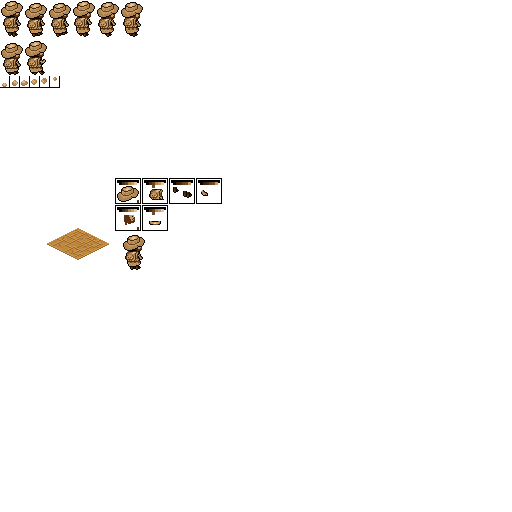
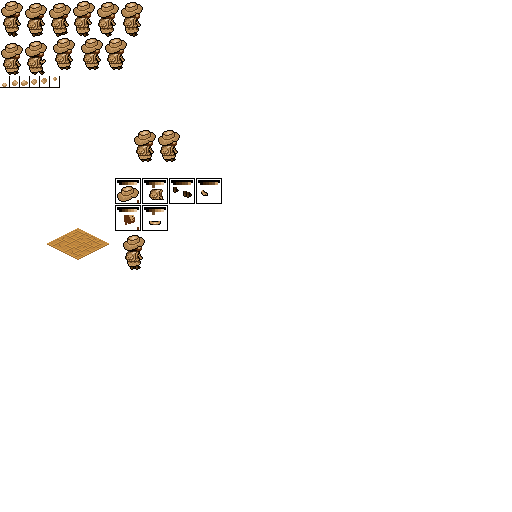
UPDATE ::: improve the animation when the player was hit.

Changed region(s): [[0.0938, 0.0625, 0.25, 0.1562], [0.25, 0.25, 0.375, 0.3125]]

diff --git a/scripts/Player.js b/scripts/Player.js
@@ -1,8 +1,8 @@
 function Player(tileset, controller) {
 	this.pos = 0;
 
-	//used for render the jump.
-	this.posJump = 0;
+	//used for render the jump & hit action.
+	this.posSave = 0;
 	this.offHeight = 0;
 
 	this.action = Player.ACTION.STAY;
@@ -15,7 +15,7 @@ function Player(tileset, controller) {
 	//updated when the action of the player change. (use setAction) 
 
 
-	this.lastStatChange = 0;
+	this.lastActionChange = 0;
 	
 	this.animationState = 0;
 	this.animationCurrentVisualOffset = 0;
@@ -38,12 +38,11 @@ Player.prototype = {
 
 				break;
 			case Player.ACTION.WALK:
-					var progress = Math.min( (time -this.lastStatChange) /(Game.TIME_STEP *2), 1);
+					var progress = Math.min( (time -this.lastActionChange) /(Game.TIME_STEP *2), 1);
 
 					this.pos = (~~this.pos) +progress;
 
 					if(progress === 1){
-						this.controller.stat.press = false;
 						this.controller.stat.release = false;
 
 						this.setAction(Player.ACTION.STAY, time);
@@ -51,13 +50,12 @@ Player.prototype = {
 
 				break;
 			case Player.ACTION.JUMP:
-					var progress = Math.min( (time -this.lastStatChange) /(Game.TIME_STEP *3), 1);
+					var progress = Math.min( (time -this.lastActionChange) /(Game.TIME_STEP *3), 1);
 
-					this.pos = (this.posJump) + progress*2;
+					this.pos = (this.posSave) + progress*2;
 					this.offHeight = ~~(Math.sin(progress* Math.PI) * 16);
 
 					if(progress === 1){
-						this.controller.stat.press = false;
 						this.controller.stat.release = false;
 
 						this.setAction(Player.ACTION.STAY, time);
@@ -68,14 +66,24 @@ Player.prototype = {
 					if(this.controller.stat.release){
 						this.controller.stat.release = false;
 
-						if((Date.now()-this.controller.stat.pressTime) >= Game.TIME_STEP *5){
-							this.posJump = this.pos;
+						if((Date.now()-this.controller.stat.pressTime) >= Game.TIME_STEP *7){
+							this.posSave = this.pos;
 							this.setAction(Player.ACTION.JUMP, time);
 
 						}else
 							this.setAction(Player.ACTION.WALK, time);
 					}
 
+				break;
+			case Player.ACTION.HIT:
+					var progress = Math.min( (time -this.lastActionChange) /(Game.TIME_STEP *2), 1);
+					this.pos = (this.posSave) - progress*2;
+
+					if(progress === 1){
+						this.controller.stat.release = false;
+
+						this.setAction(Player.ACTION.STAY, time);
+					}
 				break;
 		}
 
@@ -88,8 +96,10 @@ Player.prototype = {
 			mortal = level.map[ Math.round(this.pos) ].isMortal(this, time);
 
 		if(mortal){
-			this.setAction(Player.ACTION.STAY);
-			this.pos = ~~(this.pos -2);
+			this.posSave = Math.round(this.pos);
+			this.offHeight = 0;
+			this.setAction(Player.ACTION.HIT, time);
+			//this.pos = Math.round(this.pos);
 		}
 
 
@@ -155,7 +165,7 @@ Player.prototype = {
 	 * Update the current stat of the player.
 	*/
 	setAction: function(action, time){
-		this.lastStatChange = time;
+		this.lastActionChange = time;
 		this.action = action;
 	},
 
@@ -164,7 +174,7 @@ Player.prototype = {
 	 * Get the right texture from the tileset.
 	*/
 	getPlayerSprite: function(time) {
-		var step = ~~((time -this.lastStatChange) /Game.TIME_STEP) %this.animationFrames[this.action].length;
+		var step = ~~((time -this.lastActionChange) /Game.TIME_STEP) %this.animationFrames[this.action].length;
 		return this.animationFrames[this.action][step];
 	},
 
@@ -188,7 +198,8 @@ Player.prototype = {
 			['run2', 'run2', 'run2', 'run2', 'run5', 'run5', 'run5', 'run5'],
 			['run0', 'run1', 'run2', 'run0', 'run3', 'run4', 'run5'],
 			['jump1'],
-			['jump0']
+			['charge', 'charge', 'charge1', 'charge1', 'charge2', 'charge2', 'charge3', 'charge3', 'charge2', 'charge3', 'charge2', 'charge3', 'charge2', 'charge3', 'charge2', 'charge1'],
+			['jump1']
 		];
 
 		var result = [];
@@ -212,7 +223,8 @@ Player.ACTION = {
 	STAY: 0,
 	WALK: 1,
 	JUMP: 2,
-	CHARGE: 3
+	CHARGE: 3,
+	HIT: 4,
 };
 
 /*

diff --git a/scripts/Controller.js b/scripts/Controller.js
@@ -27,7 +27,9 @@ function Controller(game) {
 
 	//Add listeners.
 	this.target.addEventListener('mousedown', this.pressEvent);
+	this.target.addEventListener('touchstart', this.pressEvent);
 	this.target.addEventListener('mouseup', this.relaseEvent);
+	this.target.addEventListener('touchend', this.relaseEvent);
 	this.target.addEventListener('resize', this.resizeEvent);
 }
 
@@ -38,7 +40,9 @@ Controller.prototype = {
 	*/
 	destroy: function() {
 		this.target.removeEventListener('mousedown', this.pressEvent);
+		this.target.addEventListener('touchstart', this.pressEvent);
 		this.target.removeEventListener('mouseup', this.relaseEvent);
+		this.target.addEventListener('touchend', this.relaseEvent);
 		this.target.removeEventListener('resize', this.resizeEvent);
 	},
 

diff --git a/scripts/main.js b/scripts/main.js
@@ -51,7 +51,10 @@ var conf = {
 				"run5": [120, 0, 24, 38, 12, 35],
 				"jump0": [0, 38, 24, 38, 12, 35],
 				"jump1": [24, 38, 24, 38, 12, 35],
-				"charge": [0, 0, 62, 32],
+				"charge": [0, 38, 24, 38, 12, 35],
+				"charge1": [48, 38, 33, 38, 16, 30],
+				"charge2": [80, 38, 24, 38, 12, 30],
+				"charge3": [105, 38, 22, 38, 11, 30],
 				"pike3": [0, 0, 62, 32]
 			},
 			"path": "assets/img/player.png"

diff --git a/scripts/Obstacle.js b/scripts/Obstacle.js
@@ -29,7 +29,7 @@ Obstacle.prototype = {
 	},
 
 	hole: function(player, time) {
-		return player.action !== Player.ACTION.JUMP;
+		return player.action !== Player.ACTION.JUMP && player.action !== Player.ACTION.HIT;
 	},
 
 	cyclic: function(player, time) {
